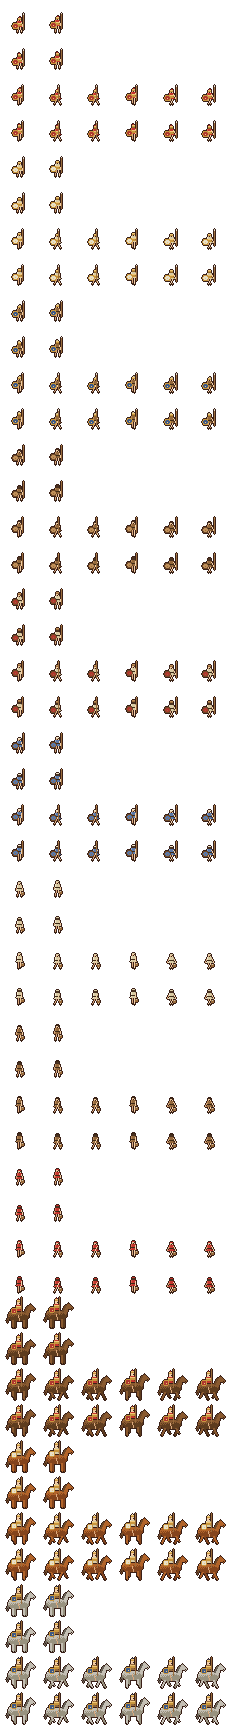
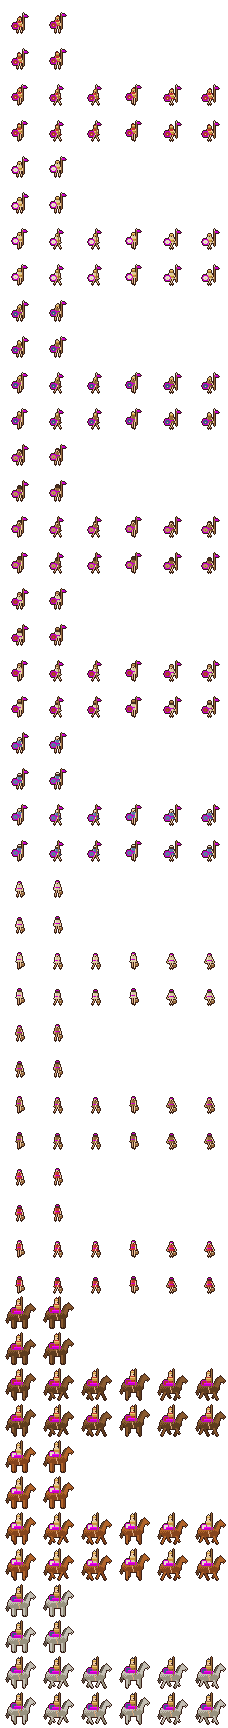
Mark units with their owner's colour: belt, shield rim, spear pennon, headband, saddle blanket
Unit sprites carry placeholder magenta team marks that a shader swaps for the
owner's colour, so teams read at a glance in a battle without uniforms, and any
player can have their own colour. The minimap dots use it too.

diff --git a/docs/DESIGN.md b/docs/DESIGN.md
@@ -150,7 +150,7 @@ era gating of buildings comes first.
 
 - **Latin lettering:** capitals only, V for U (IMPERIVM). Text goes through `Latin.t()`; English
   glosses live next to the Latin (see `latin.gd`, `hud.gd`).
-- **Player colours:** every building has an owner (`Building.owner`, an index into `Defs.PLAYER_COLORS`; player 0 is Roman purple, and landmarks such as the Circus have none). The colour is never baked into the art: it is an overlay (a fluttering pennant on the roof, tinted from a grey sprite, `BuildingView`) and an underlay-and-edge (a faint tint and a thin line round the footprint, `OverlayView`), plus the building's dot on the minimap. A second player only needs a different `owner`.
+- **Player colours:** every building has an owner (`Building.owner`, an index into `Defs.PLAYER_COLORS`; player 0 is Roman purple, and landmarks such as the Circus have none). The colour is never baked into the art: it is an overlay (a fluttering pennant on the roof, tinted from a grey sprite, `BuildingView`) and an underlay-and-edge (a faint tint and a thin line round the footprint, `OverlayView`), plus the building's dot on the minimap. A second player only needs a different `owner`. Units are marked the same way (`Unit.owner`): their sprites carry three magenta placeholder colours (`Art.TEAM_KEY`) on the belt, shield rim, spear pennon, slinger's headband and horse's saddle blanket, and `team.gdshader` swaps them for the owner's light, mid and dark colour, so a battle can be read at a glance without a uniform (early Roman soldiers had none).
 - **Circus Maximus:** a landmark (`Defs.BUILDINGS["circus"]`, `landmark: true`, so it isn't in the build bar) that stands near Roma from the start, 10x4 tiles: a sand track with a low spine and turning posts, tiered timber stands with spectators down both sides, starting gates at the far end. Tradition has Tarquinius Priscus (the fifth king, c. 600 BC) laying it out in the valley between the Palatine and the Aventine, with wooden seats (the stone circus is much later), and the valley was marshy before the Cloaca Maxima drained it. So the game puts it on the nearest open ground it can find (`_place_circus`): the woods, marsh and scrub are cleared from the site and a tile all round it, and the ground is levelled and raised two terraces so it stands on a platform of its own. It has no function yet; races are the obvious thing to add.
 - **The world:** 240 x 240 tiles, nine times the old map: a 3 x 3 grid of 80-tile blocks (`GameMap.BLOCK`, `WORLD_BLOCKS`). The middle block is the Tiber lowland where Rome starts (a basin of water and marsh with the marsh mostly confined to it); the eight around it differ in character by how much higher the land stands and how wet it is (`BLOCK_ELEVATION`, `BLOCK_MOISTURE`: hillier and drier to the north, wooded and wet to the north-east and south-east, drier meadow to the west and south), blended smoothly so there are no seams. Mines and berry patches are scattered over the whole world. The minimap is a flat top-down square.
 - **Staying fast on a big map:** nothing off the screen is built, animated or redrawn. Scenery (trees, reeds, hills, mines) is built in 12-tile chunks only near the screen and dropped when well away (`World._stream_terrain`); units and buildings off the screen skip their view updates; the "hidden behind scenery" pixel tests run a few times a second per unit, not every frame; the fog only touches the tiles whose state changed and does nothing when nothing moved (`Fog.update`); the ground, terraces and fog are shaders that cost only for the pixels on screen. Map generation uses fast separable blurs and takes under a second. `--perf` prints where each frame's time goes after 400 frames (`perf.gd`), and `--pan=x,y` scrolls steadily that way to test streaming. On the dev machine the stationary game averages about 10 ms a frame with no hitches.

diff --git a/assets/art/README.md b/assets/art/README.md
@@ -13,6 +13,10 @@ LibreSprite...) and the game picks the changes up on the next run, with no code 
 | `ground_tiles.png` | 32x16 diamond tiles, one row per terrain (deep water, shallows, beach, grass, forest floor, hill slope, mountain rock), 4 variants each |
 | `ground_tileset.tres` | a Godot isometric `TileSet` built from `ground_tiles.png`, for painting maps in the editor |
 
+## Team colour marks
+
+Unit sprites mark the team with three placeholder colours: `#ff00ff` (light), `#c800c8` (mid) and `#8c008c` (dark). The game paints the owner's colour over them (`team.gdshader`), so the magenta you see in the sheets turns purple for player 0 and another colour for another player. Today they mark the belt, the shield rim, the spear's pennon, the slinger's headband and the horse's saddle blanket. Use these three colours only for team marks.
+
 ## Rules to keep when editing
 
 - **Keep each sprite inside its box.** `manifest.json` records every sprite's rectangle.
